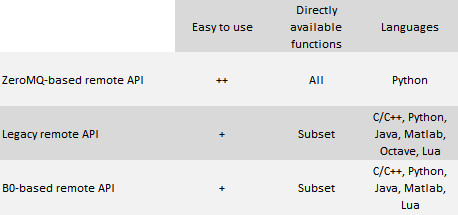
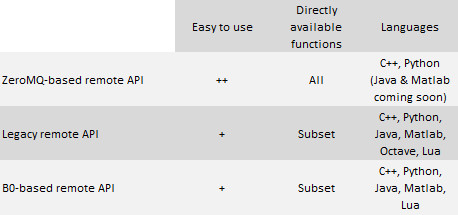
Module menu entries

diff --git a/en/regularApi/simModuleEntry.htm b/en/regularApi/simModuleEntry.htm
@@ -1,0 +1,82 @@
+<!DOCTYPE HTML PUBLIC "-//W3C//DTD HTML 4.0 Strict//EN">
+<html>
+
+<head>
+<meta http-equiv="Content-Language" content="en-us">
+<title>sim.moduleEntry</title>
+<link rel="stylesheet" type="text/css" href="../../style.css">
+</head>
+
+<body>
+
+<div align="center">
+<table class=allEncompassingTable >
+ <tr>
+  <td >
+<p><a href="../../index.html" TARGET="_top"><img src="../images/homeImg.png"></a></p>
+
+<h1>Regular API function</h1>
+<p class=subsectionBar><a name="simModuleEntry" id="simModuleEntry"></a>simModuleEntry / sim.moduleEntry</p>
+<table class=apiTable>
+<tr class=apiTableTr> 
+<td class=apiTableLeftDescr>
+Description 
+</td> 
+<td class=apiTableRightDescr>Creates, modifies or destroys module menu entries. Those are user selectable items located in [Menu bar --&gt; Modules]. When selected, the corresponding script will have its <a href="../callbackFunctions.htm#sysCall_moduleEntry">sysCall_moduleEntry</a> callback function triggered.</td>
+</tr> 
+<tr class=apiTableTr> 
+<td class=apiTableLeftCSyn>
+C synopsis
+</td> 
+<td class=apiTableRightCSyn>simInt simModuleEntry(simInt handle,const simChar* label,simInt state)</td> 
+</tr> 
+<tr class=apiTableTr> 
+<td class=apiTableLeftCParam>C parameters</td> 
+<td class=apiTableRightCParam>
+<div><strong>handle</strong>: the handle of a module menu entry, or -1 to create one.</div>
+<div><strong>label</strong>: the label of the module entry. If handle is -1, then a path can be specified, in order to build sub-menus, e.g. &quot;Exporters//My exporter&quot;. Can be nullptr if handle is not -1.</div>
+<div><strong>state</strong>: Bit-coded: if bit0 is set (1), the item is enabled. If bit1 is set (2), the item is checked. If bit2 is set (4), the item is checkable.</div>
+<div>Is ignored if set to -1. -2 will destroy an existing item.</div>
+</td> 
+</tr> 
+<tr class=apiTableTr> 
+<td class=apiTableLeftCRet>
+C return value
+</td> 
+<td class=apiTableRightCRet>
+<div>-1 if operation was not successful, otherwise the handle of the module menu entry.<br>
+</div>
+</td> 
+</tr> 
+<tr class=apiTableTr> 
+<td class=apiTableLeftLSyn>
+Lua synopsis
+</td> 
+<td class=apiTableRightLSyn>int handle=sim.moduleEntry(int handle,string label=nil,int state=-1)</td> 
+</tr> 
+<tr class=apiTableTr> 
+<td class=apiTableLeftLParam>Lua parameters</td> 
+<td class=apiTableRightLParam>
+<div>Similar to the C-function counterpart</div>
+</td> 
+</tr> 
+<tr class=apiTableTr> 
+<td class=apiTableLeftLRet>
+Lua return values
+</td> 
+<td class=apiTableRightLRet>
+<div>Similar to the C-function counterpart</div></td> 
+</tr> 
+
+ 
+
+</table> 
+
+
+<br>
+</td>
+
+</table>
+</div>
+</body>
+</html>

diff --git a/en/zmqRemoteApiOverview.htm b/en/zmqRemoteApiOverview.htm
@@ -63,7 +63,7 @@ $ sudo apt install libzmq3-dev
 <strong>macOSX</strong>, e.g. via brew:
 $ brew install zeromq</code>
 
-<p>A simple example can be found in programming/zmqRemoteApi/clients/cpp/. Build it with:</p>
+<p>Some examples can be found in programming/zmqRemoteApi/clients/cpp/. Build them with:</p>
 <code class="hljs coppelia-terminal">$ mkdir build
 $ cd build
 $ cmake ..
@@ -75,44 +75,29 @@ $ cmake --build . --config Release</code>
 
 
 
-<p>Here a simple ZeroMQ-based remote API client:</p>
-<code class="hljs language-python coppelia-zmq-remote-api-client"># Make sure to have the add-on &quot;ZMQ remote API&quot;
-# running in CoppeliaSim
+<p>Here another very simple C++ ZeroMQ-based remote API client:</p>
+<code class="hljs language-cpp coppelia-zmq-remote-api-client">#include &quot;RemoteAPIClient.h&quot;
+#include &lt;iostream&gt;
+#include &lt;iomanip&gt;
 
-from zmqRemoteApi import RemoteAPIClient
-import time
+int main()
+{
+    RemoteAPIClient client;
+    client.setStepping(true);
+    client.call(&quot;sim.startSimulation&quot;, nullptr);
+    float simTime=0.0f;
+    while (simTime&lt;3.0f)
+    {
+        std::cout &lt;&lt; &quot;Simulation time: &quot; &lt;&lt; std::setprecision(3) &lt;&lt; simTime &lt;&lt; &quot; [s]&quot; &lt;&lt; std::endl;
+        client.step();
+        simTime=client.call(&quot;sim.getSimulationTime&quot;)[0].as
+        <float>
+        ();
+    }    
+    client.call(&quot;sim.stopSimulation&quot;, nullptr);
 
-client = RemoteAPIClient('localhost',23000)
-
-# Support default functionality:
-sim = client.getobject('sim')
-
-# Support additional functionality, e.g.:
-simIK = client.getobject('simIK')
-simOMPL = client.getobject('simOMPL')
-simUI = client.getobject('simUI')
-
-# Run a simulation in non-stepping mode:
-sim.startSimulation()
-while (t := sim.getSimulationTime()) &lt; 3:
-    s=f'Simulation time: {t:.2f} [s] (simulation running asynchronously to client)'
-    print(s)
-    sim.addLog(sim.verbosity_scriptinfos,s)
-sim.stopSimulation()
-
-# If you need to make sure we really stopped:
-while sim.getSimulationState()!=sim.simulation_stopped:
-    time.sleep(0.1)
-
-# Run a simulation in stepping mode:
-client.setstepping(True)
-sim.startSimulation()
-while (t := sim.getSimulationTime()) &lt; 3:
-    s=f'Simulation time: {t:.2f} [s] (simulation running synchronously to client)'
-    print(s)
-    sim.addLog(sim.verbosity_scriptinfos,s)
-    client.step() # triggers next simulation step
-sim.stopSimulation()
+    return 0;
+}
 </code>
 
 

diff --git a/en/remoteApiOverview.htm b/en/remoteApiOverview.htm
@@ -21,7 +21,7 @@
 
 <p>The remote API is one of <a href="meansOfCommunication.htm">several ways an application can connect with CoppeliaSim</a>. It allows communication between CoppeliaSim and an external application (i.e. an application running in a different process, or on a different machine), is cross-platform, supports service calls (i.e. blocking calls), and also bidirectional data streaming. It comes in three distinct versions/frameworks:</p>
 
-<li><a href="zmqRemoteApiOverview.htm">The ZeroMQ-based remote API</a>: it is  lightweight and easy to use, offers all API functions also available via a CoppeliaSim script, and currently supports Python clients.</li>
+<li><a href="zmqRemoteApiOverview.htm">The ZeroMQ-based remote API</a>: it is  lightweight and easy to use, offers all API functions also available via a CoppeliaSim script, and currently supports Python and C++ clients.</li>
 
 <li><a href="legacyRemoteApiOverview.htm">The legacy remote API</a> (or simply <em>remote API</em>): it is comparatively lightweight and has less dependencies than the B0-based remote API. It offers a subset of API functions and supports following clients: C/C++, Java, Python, Matlab, Octave and Lua.</li>
 

diff --git a/en/versionInfo.htm b/en/versionInfo.htm
@@ -62,6 +62,7 @@ Version history:
 <li>Added an URDF export add-on: <em>URDF exporter</em>.</li>
 <li>Added a model of the Franka Emika gripper, courtesy of Alexander Oliva</li>
 <li>Added <a href="regularApi/simRegisterScriptFuncHook.htm">sim.registerScriptFuncHook</a> that allows to hook functions</li>
+<li>Added <a href="regularApi/simModuleEntry.htm">sim.moduleEntry</a> that allows to handle menu entries in the <em>Modules</em> tab. When selected, the corresponding script will have its <a href="callbackFunctions.htm#sysCall_moduleEntry">sysCall_moduleEntry</a> callback function triggered.</li>
 <li>Added <a href="regularApi/simGetShapeBB.htm">sim.getShapeBB</a> and <a href="regularApi/simSetShapeBB.htm">sim.setShapeBB</a> to be able to scale shapes more conveniently</li>
 <li>Added the possibility to transform/distort <a href="visionSensors.htm">vision sensor</a> images via a function using pixel remapping: <a href="simVision.htm#simVision.distort">simVision.distort</a>. See also the related demo scene in <em>scenes/vision/imageProcessingDemo2.ttt</em></li>
 <li>Added an example model of a Stewart platform: <em>Models/robots/non-mobile/Stewart platform.ttm</em></li>

diff --git a/en/callbackFunctions.htm b/en/callbackFunctions.htm
@@ -37,7 +37,7 @@
 <code class="hljs language-lua coppelia-coppeliasim-script">
 function <strong>sysCall_info</strong>()
     -- Can be used to specify initial configuration data. E.g. in case of an add-on: 
-    return {autoStart=false}
+    return {autoStart=false,menu='menu1//menu2//add-on name',menuEnabled=true}
 end
 
 function <strong>sysCall_init</strong>()
@@ -180,6 +180,12 @@ end
 function <strong>sysCall_userConfig</strong>()
     -- See the <a href="userConfigCallbackFunctions.htm">user config callback function</a> section for details.
     -- Only for <a href="customizationScripts.htm">customization scripts</a>.
+end
+
+<a name="sysCall_moduleEntry"></a>function <strong>sysCall_moduleEntry</strong>(inData)
+    -- Called when a user module menu entry is selected, e.g.
+    print('Following module menu entry was selected: '..inData.handle)
+    -- See the <a href="regularApi/simModuleEntry.htm">sim.moduleEntry</a> for details.
 end</code>
 
 

diff --git a/en/apiFunctions.htm b/en/apiFunctions.htm
@@ -879,6 +879,7 @@ See also:
                                              <a href="regularApi/simCreateBuffer.htm">simCreateBuffer</a> (C/C++)
                                              <a href="regularApi/simReleaseBuffer.htm">simReleaseBuffer</a> (C/C++)
 <a href="regularApi/simIsDeprecated.htm">sim.isDeprecated</a> (Lua)                       <a href="regularApi/simIsDeprecated.htm">simIsDeprecated</a> (C/C++)
+<a href="regularApi/simModuleEntry.htm">sim.moduleEntry</a> (Lua)                        <a href="regularApi/simModuleEntry.htm">simModuleEntry</a> (C/C++)
 </pre>
 
 <br>
